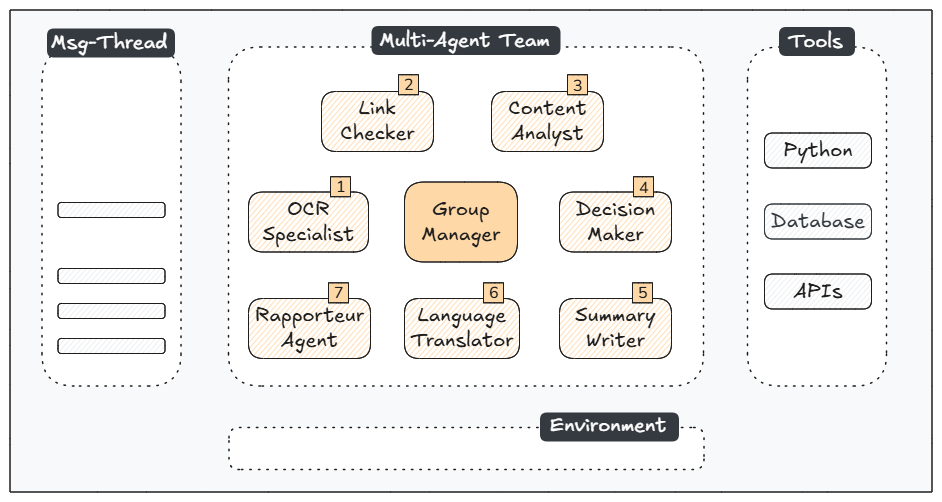
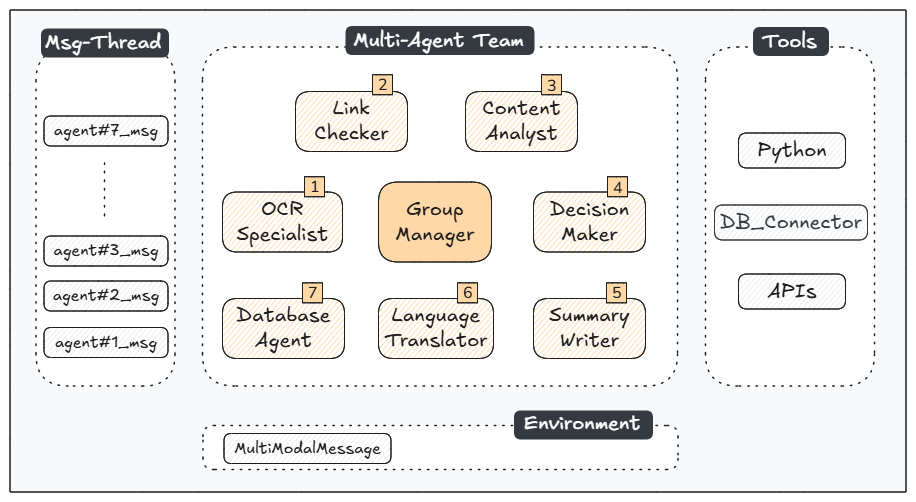
add data_storage agent

diff --git a/tools/db_connector.py b/tools/db_connector.py
@@ -1,0 +1,77 @@
+import sqlite3
+from typing import Optional
+from datetime import datetime
+
+class DatabaseConnector:
+    """Manages database operations for storing analysis results."""
+
+    def __init__(self, db_path: str = "sqlite3/results.db"):
+        """Initialize database connection and create table if it doesn't exist.
+        """
+        self.db_path = db_path
+        self._create_table()
+
+    def _create_table(self) -> None:
+        """Create results table if it doesn't exist."""
+        query = """
+        CREATE TABLE IF NOT EXISTS results (
+            id INTEGER PRIMARY KEY AUTOINCREMENT,
+            text TEXT NOT NULL,
+            summary TEXT,
+            is_scam BOOLEAN NOT NULL,
+            confidence_level TEXT,
+            created_at TIMESTAMP DEFAULT CURRENT_TIMESTAMP
+        )
+        """
+        with sqlite3.connect(self.db_path) as conn:
+            conn.execute(query)
+
+    def store_result(
+        self,
+        text: str,
+        summary: Optional[str],
+        is_scam: bool,
+        confidence_level: Optional[str]
+    ) -> int:
+        """Store analysis result in the database.
+        """
+        query = """
+        INSERT INTO results (text, summary, is_scam, confidence_level)
+        VALUES (?, ?, ?, ?)
+        """
+
+        print("Storing result in database...")
+        # print fields
+        print(f"Text: {text}")
+        print(f"Summary: {summary}")
+        print(f"Is Scam: {is_scam}")
+        print(f"Confidence Level: {confidence_level}")
+
+        with sqlite3.connect(self.db_path) as conn:
+            cursor = conn.execute(
+                query,
+                (text, summary, is_scam, confidence_level)
+            )
+            return cursor.lastrowid
+
+    def get_result(self, result_id: int) -> Optional[dict]:
+        """Retrieve a specific analysis result by ID.
+        """
+        query = "SELECT * FROM results WHERE id = ?"
+        with sqlite3.connect(self.db_path) as conn:
+            conn.row_factory = sqlite3.Row
+            cursor = conn.execute(query, (result_id,))
+            result = cursor.fetchone()
+            
+            if result:
+                return dict(result)
+            return None
+
+    def get_top_k(self, k: int = 10) -> list[dict]:
+        """Retrieve most recent analysis results.
+        """
+        query = "SELECT * FROM results ORDER BY created_at DESC LIMIT ?"
+        with sqlite3.connect(self.db_path) as conn:
+            conn.row_factory = sqlite3.Row
+            cursor = conn.execute(query, (k,))
+            return [dict(row) for row in cursor.fetchall()]

diff --git a/agents.py b/agents.py
@@ -13,8 +13,7 @@ from dotenv import load_dotenv, find_dotenv
 from PIL import Image
 import yaml
 
-from tools import ImageOCR
-from tools import URLChecker
+from tools import ImageOCR, URLChecker, DatabaseConnector
 
 class MinervaTeam:
     """
@@ -60,6 +59,12 @@ class MinervaTeam:
         url_checker_tool = FunctionTool(
             url_checker.is_url_safe,
             description="Checks if a URL is safe"
+        )
+
+        db_connector = DatabaseConnector()
+        db_connector_tool = FunctionTool(
+            db_connector.store_result,
+            description="Stores analysis results in a database"
         )
 
         agents = []
@@ -108,6 +113,14 @@ class MinervaTeam:
             model_client=self.model
         ))
 
+        agents.append(ToolUseAssistantAgent(
+            name="DataStorage_Agent",
+            description="Store the extracted text, summary, determination (1, 0) and confidence level (high, medium low) in a database",
+            system_message=self.config['data_storage_agent']['assignment'],
+            model_client=self.model,
+            registered_tools=[db_connector_tool]
+        ))
+
         return agents
     
     def create_team(self) -> RoundRobinGroupChat:
@@ -116,7 +129,7 @@ class MinervaTeam:
 
         return RoundRobinGroupChat(
             self.agents,
-            max_turns=6,
+            max_turns=7,
             termination_condition=termination
         )
     

diff --git a/app.py b/app.py
@@ -55,7 +55,7 @@ async def predict(img):
             yield ["Pondering, stand by...", to_html(messages)]
         
         if streams[-1]:
-            prediction = streams[-1].messages[-1].content
+            prediction = streams[-1].messages[-4].content
         else:
             prediction = "No analysis available. Try again later."
 

diff --git a/tools/__init__.py b/tools/__init__.py
@@ -1,4 +1,5 @@
 from .image_ocr import ImageOCR
 from .url_checker import URLChecker
+from .db_connector import DatabaseConnector
 
-__all__ = ['ImageOCR', 'URLChecker']
+__all__ = ['ImageOCR', 'URLChecker', 'DatabaseConnector']

diff --git a/README.md b/README.md
@@ -15,25 +15,26 @@ pinned: false
 
 Digital scams inflict devastating impacts in our society. According to the FBI IC3, $37.4 billion was lost in the United States alone over the past five years due to Internet scams [1]. Beyond these direct losses, the hidden costs of processing nearly 4 million associated complaints [1] has overwhelmed institutional and enterprise resources, while victims face psychological disruptions and eroding trust in novel technologies.
 
-To address this challenge, we explore the use of a multi-agent system based on a Large Language Model (GPT-4o) to protect users from digital scams. MINERVA implements a cooperative team of six specialized agents using the AutoGen framework (v0.4.0) [2], where each agent can compose advanced model capabilities and tool utilization to focus on a specific aspect of scam detection - from optical character recognition and link verification to content analysis, decision making, summarization, and linguistic translation. The workflow is initiated by a user sending a multimodal message to the group manager. It ends when all agents complete a round-robin conversation cycle or when an agent triggers a termination signal. Following this autonomous workflow, the user receives clear, actionable guidance in their own language.
+To address this challenge, we explore the use of a multi-agent system based on a Large Language Model (GPT-4o) to protect users from digital scams. MINERVA implements a cooperative team of seven specialized agents using the AutoGen framework (v0.4.0) [2]. Each agent combines advanced model capabilities and tools to focus on a specific aspect of scam detection: optical character recognition, link verification, content analysis, decision making, summarization, linguistic translation, and archiving. The workflow is initiated by a user sending a multimodal message to the group manager. It ends when all agents complete a round-robin conversation cycle or when an agent triggers a termination signal. Following this autonomous workflow, the user receives clear, actionable guidance in their own language.
 
-Beyond immediate protection, this project aims to improve digital literacy by providing users with detailed explanations of detected scams, fostering trust in AI-powered safety tools. Additionally, the intended creation of an open, anonymized dataset of reported scams will: (i) enable fine-tuning of future models with current scam patterns, and (ii) provide insights for law enforcement and cybersecurity professionals to understand emerging threats and attack vectors.
+Beyond immediate protection, this project aims to improve digital literacy by providing users with detailed explanations of detected scams, fostering trust in AI-powered safety tools. Additionally, archiving the results enables the creation of an open, anonymized dataset of reported scams. This dataset would serve two purposes: (i) enabling fine-tuning of future models with current scam patterns, and (ii) providing insights for law enforcement and cybersecurity professionals to understand emerging threats and attack vectors.
 
 *[This work was developed as a project submission for RDI Berkeley, LLM-Agents Course, CS294/194-196. By Diego Carpintero]*
+
+### Introduction
+
+We define an *Agent* as a system that leverages a language model to interpret natural language instructions, perform tasks, interact with its environment and coopearate with other agents (and a human) towards reaching out a defined goal.
+
+Recent advancements in AI have enabled the development of sophisticated agents capable of reasoning and tool usage, with multi-agent collaboration emerging as a promising paradigm for complex tasks.
+
+Our intuition is that scam detection represents a promising research area for such multi-agent systems due to its inherent complexity and the need for diverse analytical perspectives. Digital scams often combine multiple deceptive elements - from social engineering tactics to technical manipulation - requiring different types of analysis. A multi-agent approach enables a group of specialized agents to focus on distinct aspects while cooperating through structured dialogue to form a comprehensive assessment.
+
+### Architecture
 
 <p align="center">
   <img src="./static/minerva.architecture.png">
 </p>
-<p align="center">Minerva Agents Architecture</p>
-
-
-### Introduction
-
-We define an Agent as a system that leverages a language model to interpret natural language instructions, perform tasks, interact with its environment and coopearate with other agents (and a human) towards planning and reaching out a goal.
-
-Recent advancements in Large Language Models have enabled the development of sophisticated agents capable of reasoning and tool usage, with multi-agent collaboration emerging as a promising paradigm for complex tasks.
-
-Our intuition is that scam detection represents a valid use case for such multi-agent systems due to its inherent complexity and the need for diverse analytical perspectives. Digital scams often combine multiple deceptive elements - from social engineering tactics to technical manipulation - requiring different types of analysis. A multi-agent approach enables a group of specialized agents to focus on distinct aspects while collaborating through structured dialogue to form a comprehensive assessment.
+<p align="center">Minerva: Multi-Agent LLM System Architecture</p>
 
 ### Agents with Tools
 
@@ -45,6 +46,7 @@ We define the following agents whose roles are specified in [./config/agents.yam
 - Decision Maker: *Synthesizes the analyses and makes final determination.*
 - Summarizer: *Generates a summary of the final determination.*
 - Language Translation Specialist: *Translates the summary to the user language.*
+- Data Storage Agent: *Store the extracted text, summary, determination (1, 0) and confidence level in a database*
 
 ### Orchestration
 
